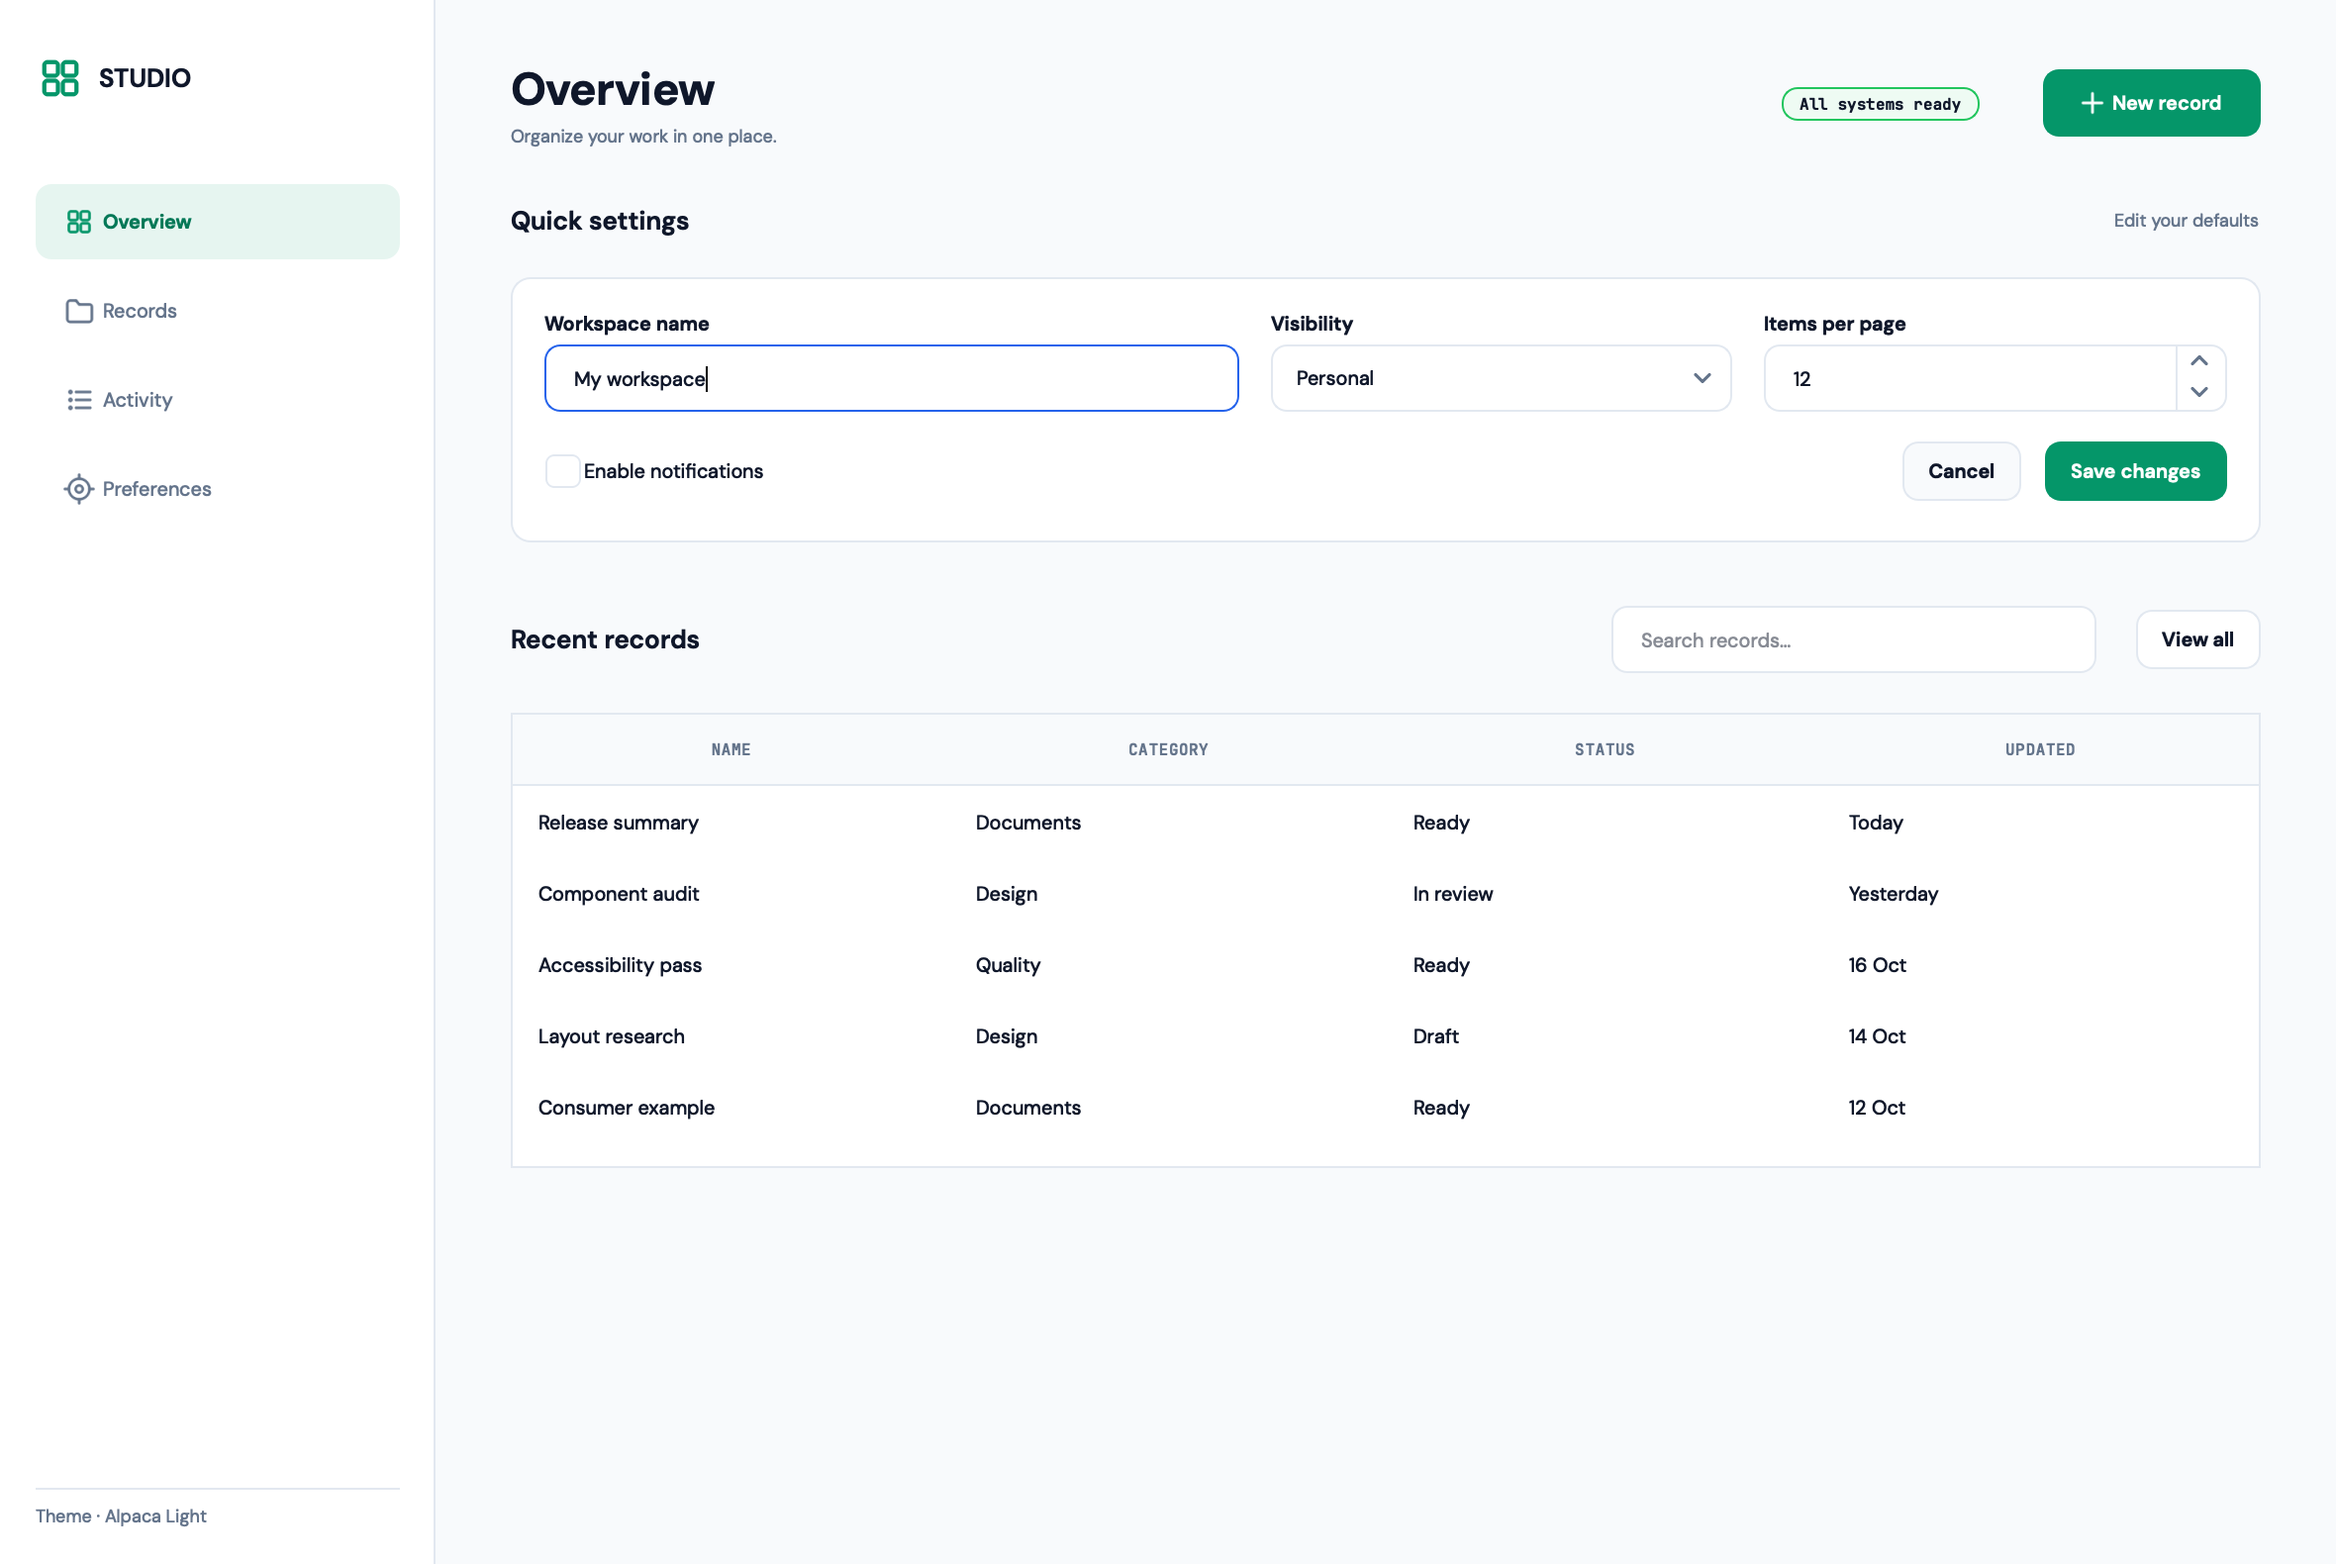
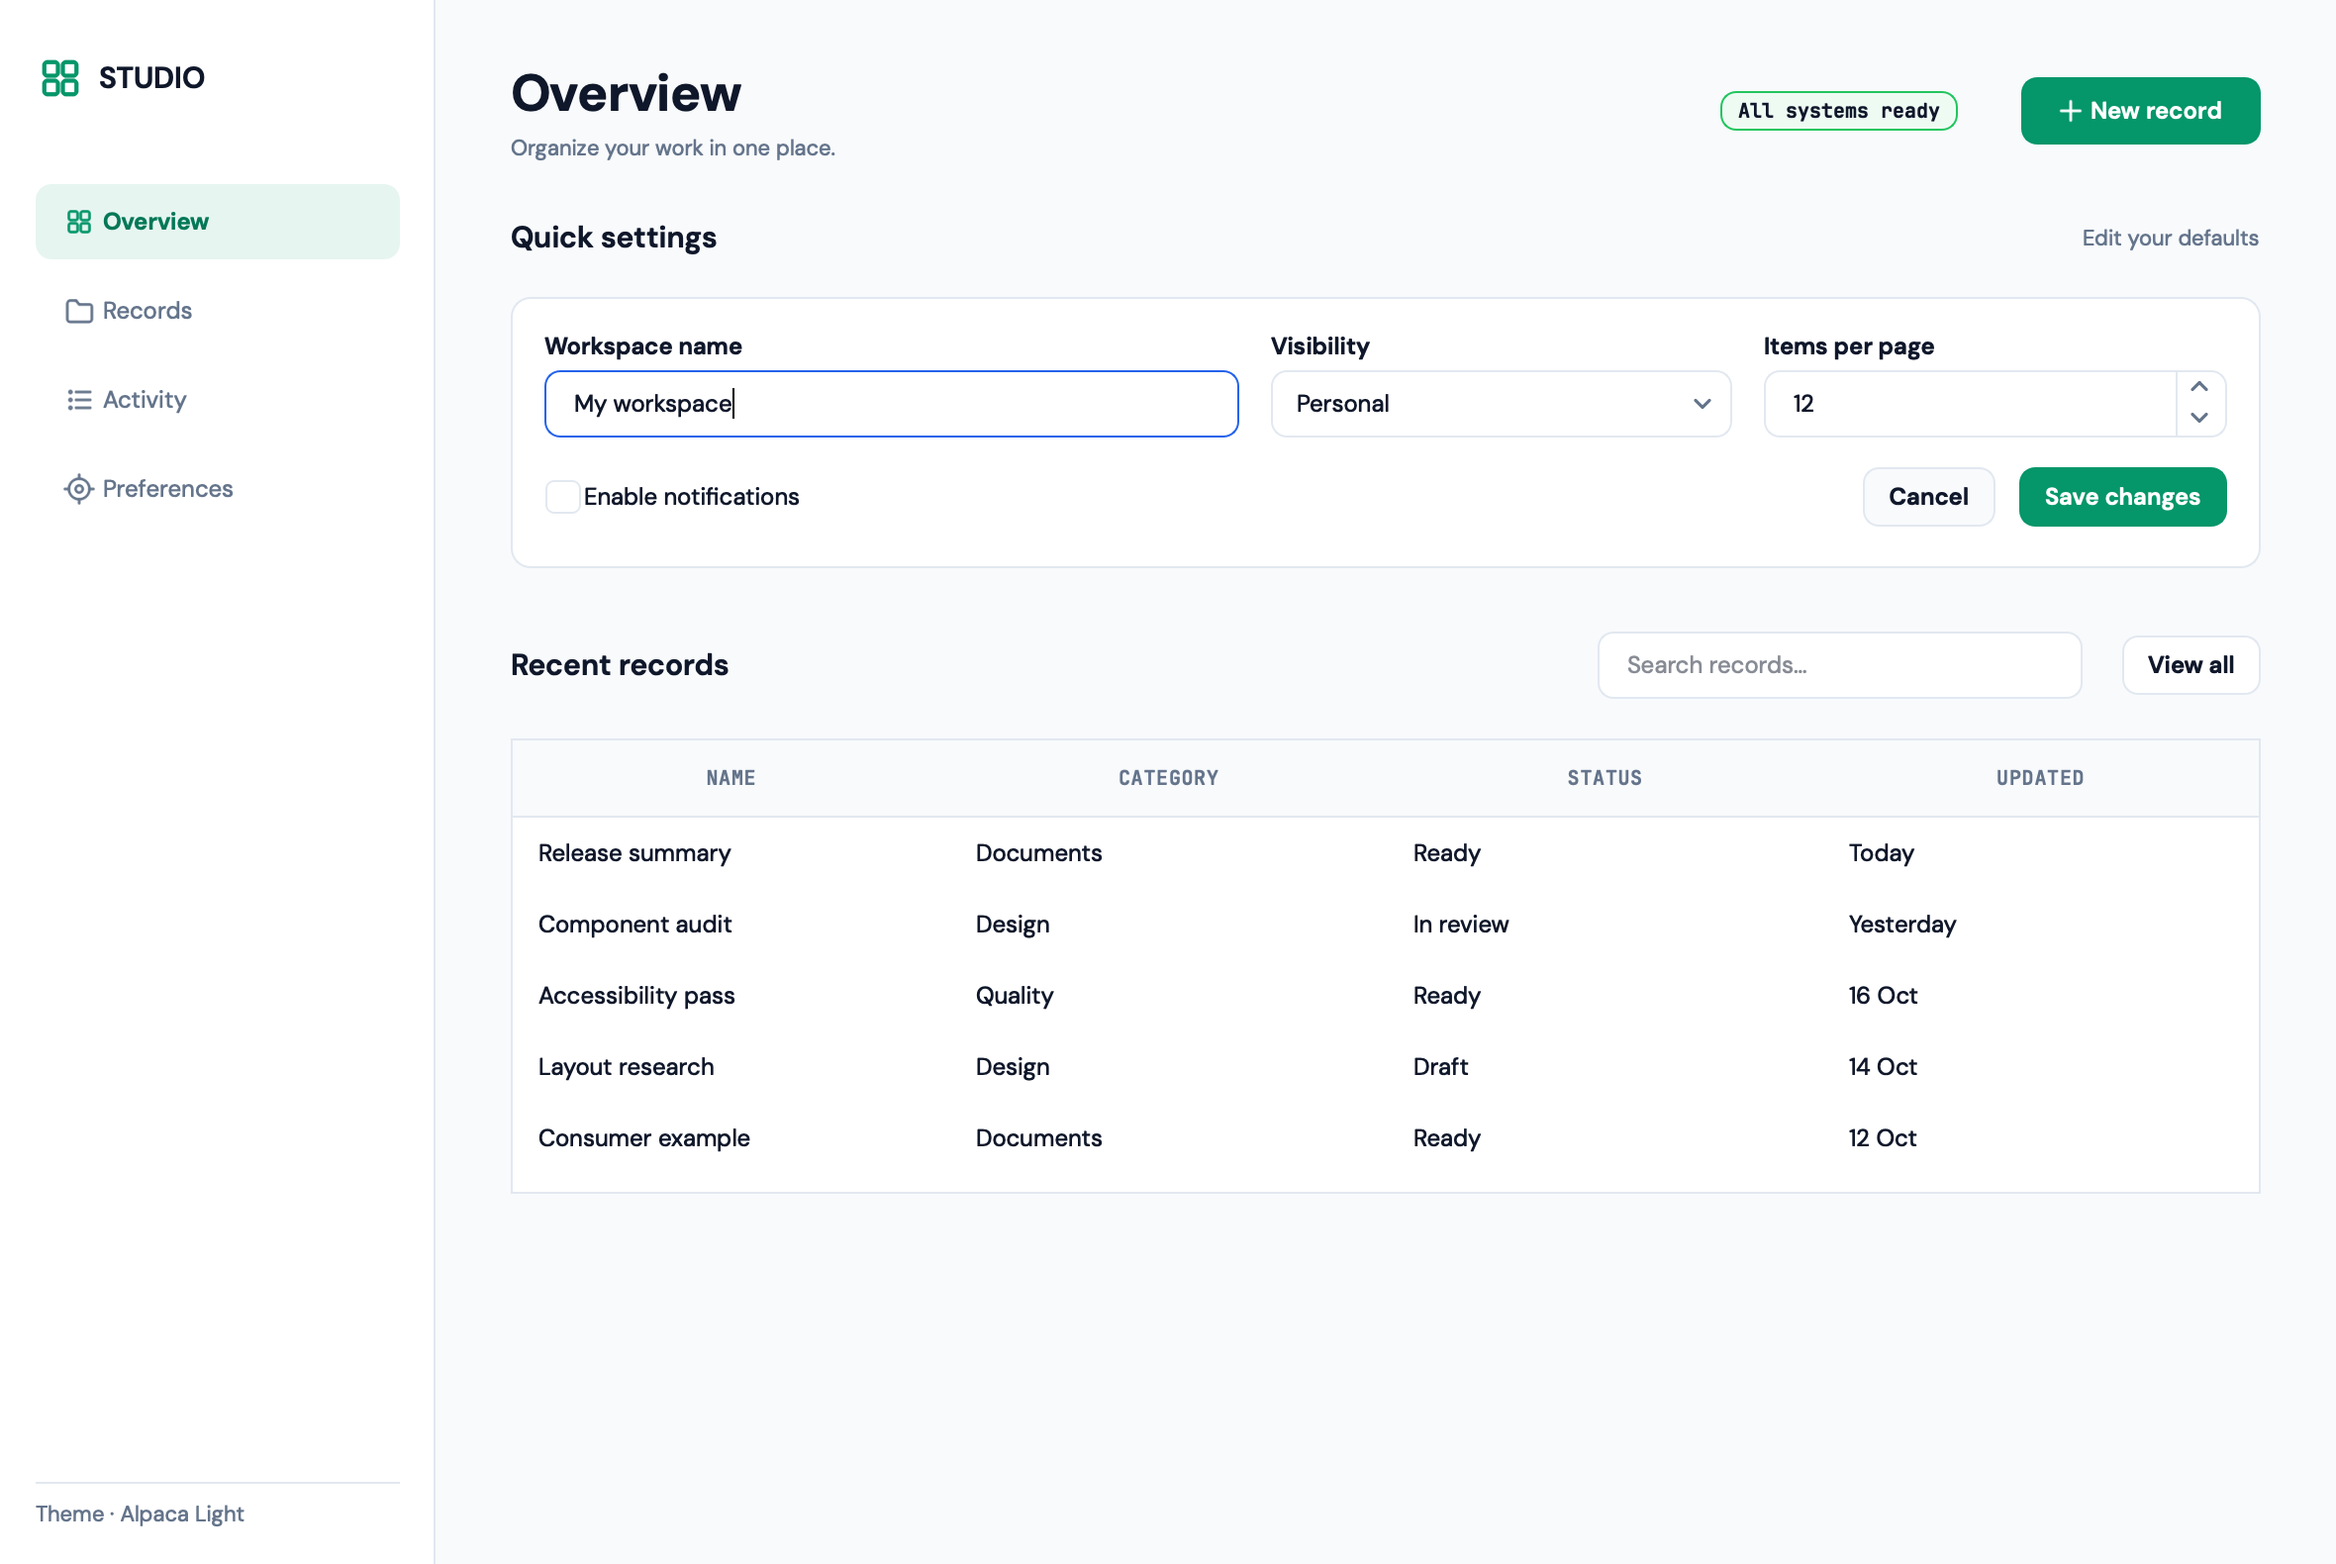
fix(theme): raise the readable desktop type scale

diff --git a/gallery/main.py b/gallery/main.py
@@ -157,9 +157,15 @@ def build_window() -> QWidget:
     heading = Text("Alpaca Light", role="title")
     heading.setAccessibleName("Theme heading")
     layout.addWidget(heading)
-    layout.addWidget(QLabel("Alpaca palette · native Qt behavior · consistent desktop components."))
+    introduction = QLabel("Alpaca palette · native Qt behavior · consistent desktop components.")
+    introduction.setWordWrap(True)
+    layout.addWidget(introduction)
     layout.addWidget(
-        Text("Compact type scale with quieter surfaces and consistent controls.", role="caption")
+        Text(
+            "Readable type scale with quieter surfaces and consistent controls.",
+            role="caption",
+            word_wrap=True,
+        )
     )
     focus_help = QLabel(
         "Keyboard focus check: click Primary, then use Tab and Shift+Tab; "
@@ -197,9 +203,9 @@ def build_window() -> QWidget:
     action_layout = QVBoxLayout(actions)
     action_layout.setSpacing(theme.spacing.medium)
     action_layout.addWidget(Text("Variants", role="overline"))
-    action_layout.addWidget(
-        _component_row(*(Button(variant.title(), variant=variant) for variant in _BUTTON_VARIANTS))
-    )
+    variant_buttons = [Button(variant.title(), variant=variant) for variant in _BUTTON_VARIANTS]
+    action_layout.addWidget(_component_row(*variant_buttons[:2]))
+    action_layout.addWidget(_component_row(*variant_buttons[2:]))
     action_layout.addWidget(Text("Sizes", role="overline"))
     action_layout.addWidget(
         _component_row(

diff --git a/tests/test_theme.py b/tests/test_theme.py
@@ -36,6 +36,16 @@ def test_alpaca_light_has_exact_source_colors() -> None:
     assert {name: getattr(ALPACA_LIGHT.colors, name) for name in EXPECTED_COLORS} == EXPECTED_COLORS
 
 
+def test_alpaca_light_uses_a_readable_desktop_type_scale() -> None:
+    typography = ALPACA_LIGHT.typography
+    assert typography.body_size >= 12
+    assert typography.caption_size >= 11
+    assert typography.overline_size >= 10
+    assert typography.subheading_size > typography.body_size
+    assert typography.heading_size > typography.subheading_size
+    assert typography.title_size > typography.heading_size
+
+
 def test_theme_is_frozen_and_supports_typed_startup_override() -> None:
     with pytest.raises(FrozenInstanceError):
         ALPACA_LIGHT.colors.primary = "#000000"  # type: ignore[misc]

diff --git a/src/alp_ui/theme/alpaca_light.py b/src/alp_ui/theme/alpaca_light.py
@@ -30,13 +30,16 @@ ALPACA_LIGHT = Theme(
         metadata_family="JetBrains Mono",
         body_fallbacks=("Segoe UI", "Arial"),
         metadata_fallbacks=("Cascadia Mono", "Consolas", "Menlo"),
-        body_size=10.0,
-        heading_size=18.0,
-        overline_size=8.0,
+        body_size=12.0,
+        heading_size=20.0,
+        overline_size=10.0,
         body_weight=400,
         heading_weight=700,
         button_weight=600,
         metadata_weight=500,
+        title_size=26.0,
+        subheading_size=15.0,
+        caption_size=11.0,
     ),
     spacing=SpacingTokens(
         none=0,

diff --git a/src/alp_ui/theme/tokens.py b/src/alp_ui/theme/tokens.py
@@ -48,9 +48,9 @@ class TypographyTokens:
     heading_weight: int
     button_weight: int
     metadata_weight: int
-    title_size: float = 23.0
-    subheading_size: float = 13.0
-    caption_size: float = 9.0
+    title_size: float = 26.0
+    subheading_size: float = 15.0
+    caption_size: float = 11.0
 
     def __post_init__(self) -> None:
         if not self.body_family.strip() or not self.metadata_family.strip():

diff --git a/docs/project/reports/quality-and-compatibility.md b/docs/project/reports/quality-and-compatibility.md
@@ -1,7 +1,7 @@
 # Quality and compatibility report — v0.1 candidate
 
-Checked on 2026-10-18 for the v0.1 release candidate, including density, shared
-interaction styling, original icons, and the composed Showcase. This report
+Checked on 2026-10-26 for the v0.1 release candidate, including the readable type-scale
+refresh, density, shared interaction styling, original icons, and the composed Showcase. This report
 distinguishes automated evidence from platform checks that still require Windows
 hardware.
 
@@ -12,8 +12,9 @@ hardware.
 | Host | macOS 26.6.2, arm64 |
 | Python | CPython 3.13.13 |
 | Qt binding | PySide6-Essentials 6.11.2 |
-| Automated behavior tests | 66 passed |
-| Ruff lint and format | Pass |
+| Automated behavior tests | 97 passed |
+| Ruff lint | Pass |
+| Ruff format | Changed files pass; repository-wide check still flags the pre-existing `tasks/12-lightweight-plot.md` code block |
 | macOS Gallery and Showcase render | Pass at native scale; Showcase also passed at 150% with 15-point body text |
 | Windows x86-64, Python 3.11-3.13 | Configured in `.github/workflows/ci.yml`; not executable on this host |
 
@@ -37,10 +38,11 @@ Automated tests exercise the public control rather than duplicate internal state
 
 The Gallery and compact Showcase were rendered and visually reviewed through the
 native macOS Qt platform plugin. Current Retina captures are committed under
-`docs/images/` and displayed by the README. A 150% scale Showcase with 15-point body
-text also rendered without observed clipping; that local capture remains outside the
-distribution at
-`references/quality-screenshots/showcase-macos-150-large-font.png`. Automated tests
+`docs/images/` and displayed by the README. The default scale now uses 12-point body
+text and an 11-point minimum caption after downstream Trainer review found the former
+10/9/8-point body/caption/overline scale too small. A 150% scale Showcase with
+15-point body text also rendered without observed clipping; that local capture remains
+outside the distribution at `references/quality-screenshots/showcase-macos-150-large-font.png`. Automated tests
 additionally exercise right-to-left spin-button mouse targets, select popup
 visibility, and checkbox/switch keyboard state; the matching visual capture is
 `references/quality-screenshots/gallery-macos-rtl.png`.

diff --git a/docs/project/THEME_ALPACA_LIGHT.md b/docs/project/THEME_ALPACA_LIGHT.md
@@ -36,6 +36,7 @@ is an accent, **not** a mandate to draw every secondary button amber.
 |---|---|---|
 | General family | `"DM Sans", sans-serif` | Prefer bundled unmodified DM Sans; documented system fallback. |
 | Metadata family | `"JetBrains Mono", monospace` | Prefer bundled unmodified JetBrains Mono for badges/table heading/metadata, not body text. |
+| Type scale | Body 12 pt; caption 11 pt; overline 10 pt; subheading 15 pt; heading 20 pt; title 26 pt | Readable native desktop defaults. Density changes geometry, never font size. |
 | `h4` | Weight 700, letter spacing `-0.02em` | Approximate via QFont and font letter-spacing support if consistent. |
 | `h5` | Weight 600, letter spacing `-0.01em` | Use QFont appropriate to platform font metrics. |
 | `h6` | Weight 600 | Consistent headings. |
@@ -100,10 +101,9 @@ behaviors; controls draw only small consistent vector subparts.
 
 ### Typography and icons
 
-Keep DM Sans/JetBrains Mono. Roles include `title` 23pt/700, `subheading` 13pt/600,
-`caption` 9pt/400. Existing `heading` 18pt/700, `body` 10pt/400, and mono
-`overline` 8pt/500 remain. `make_icon` provides small original single-stroke Qt
-icons without an external icon pack.
+Keep DM Sans/JetBrains Mono and the readable role scale defined in the typography
+table above. `make_icon` provides small original single-stroke Qt icons without an
+external icon pack.
 
 ### Surface hierarchy
 

diff --git a/AGENTS.md b/AGENTS.md
@@ -59,6 +59,8 @@ and independently authored implementation decisions.
   `docs/legal/THIRD_PARTY_NOTICES.md` and downstream compliance guidance accurate.
 - Alpaca Light is the first Theme. Components consume semantic tokens rather than
   embedding brand colors.
+- Keep the default desktop type scale comfortably readable. Density may change
+  control geometry and spacing, never font point sizes.
 - Prefer native Qt controls, signals, model/view interfaces, keyboard behavior, and
   accessibility.
 - Do not create wrappers without reusable styling, behavior, or contract.

diff --git a/docs/theme.md b/docs/theme.md
@@ -79,6 +79,10 @@ custom QWidget framework or global stylesheet.
 Body font: **DM Sans**. Metadata font: **JetBrains Mono**. Text roles: `title`,
 `heading`, `subheading`, `body`, `caption`, `overline`.
 
+Alpaca Light uses a readable desktop scale: 12 pt body, 11 pt caption, 10 pt
+overline, 15 pt subheading, 20 pt heading, and 26 pt title. Consumers can replace
+these typed tokens at startup, but compact density does not shrink them.
+
 Original, library-drawn stroke icons use `make_icon`:
 
 ```python
